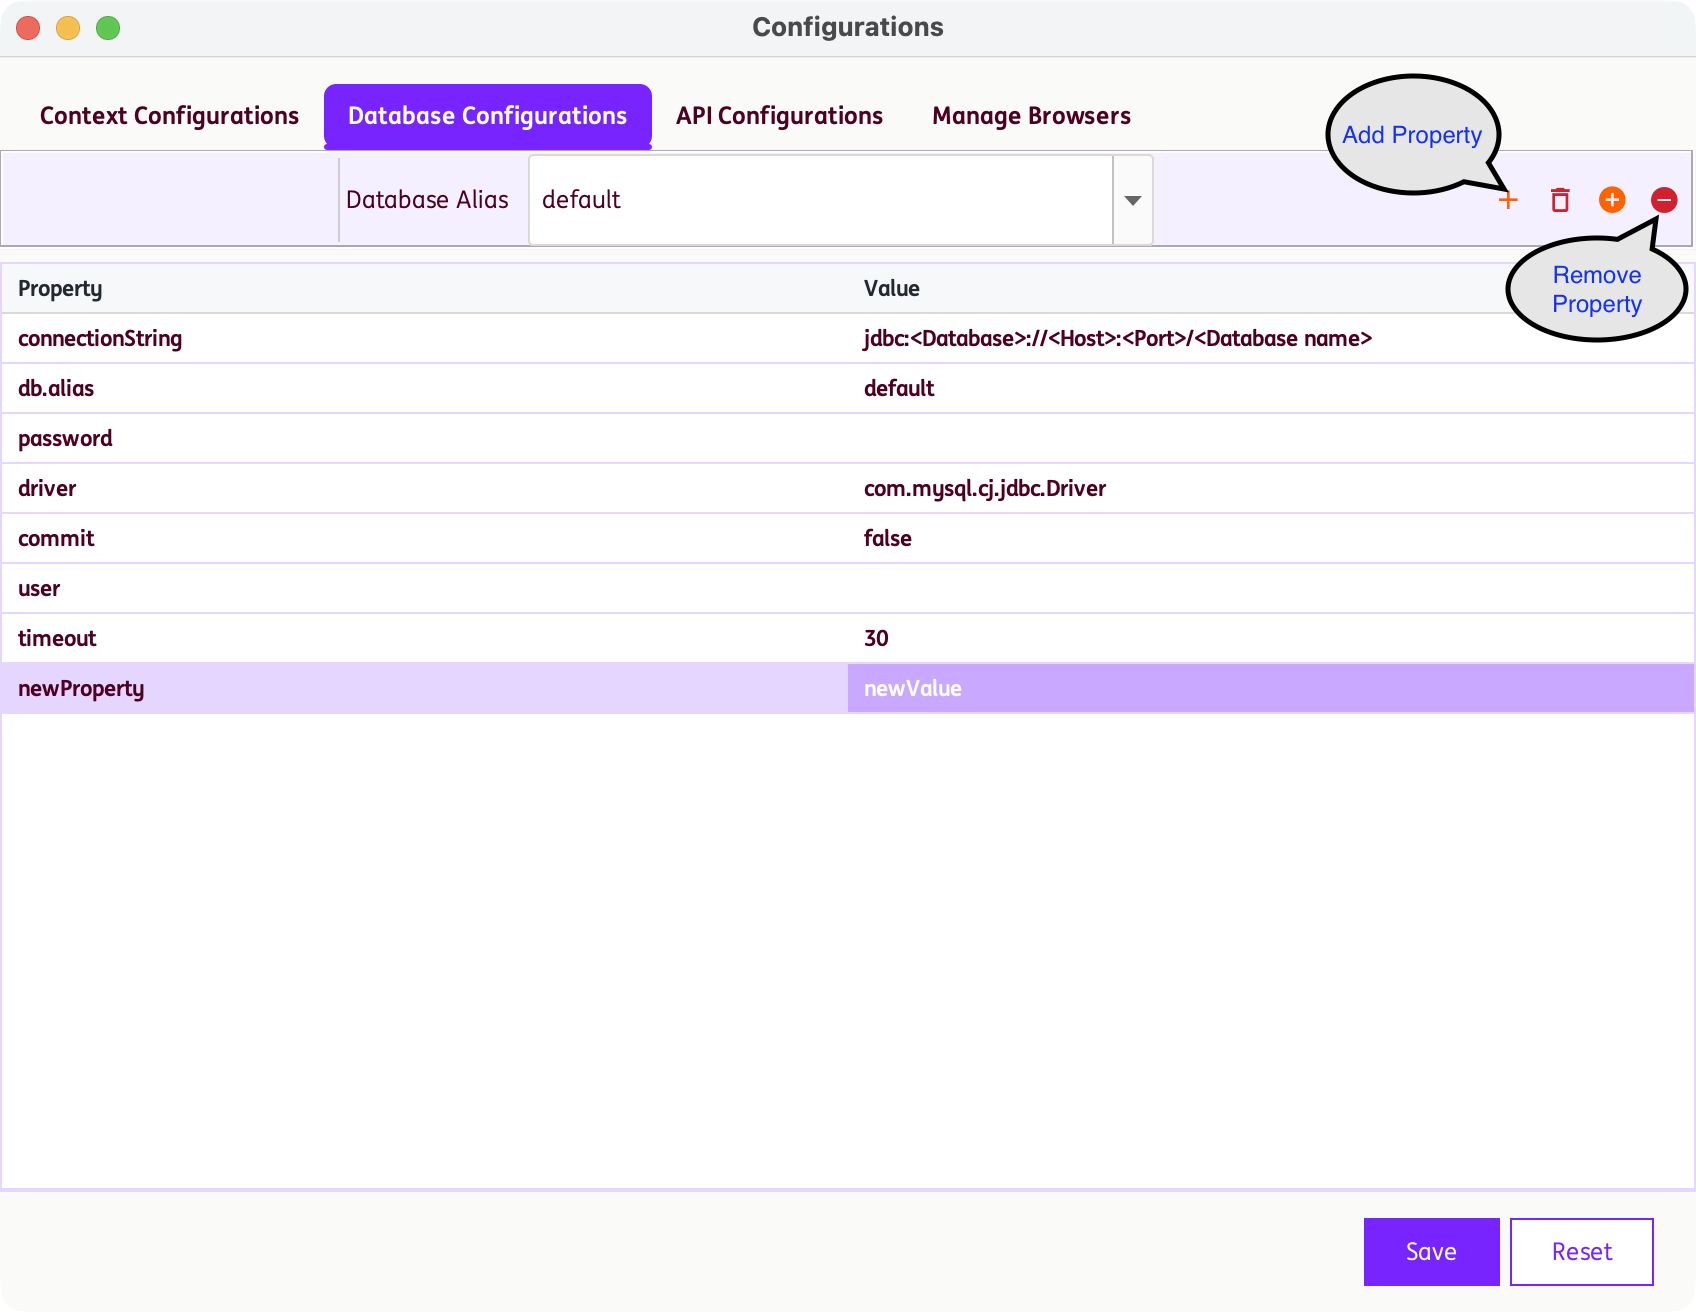
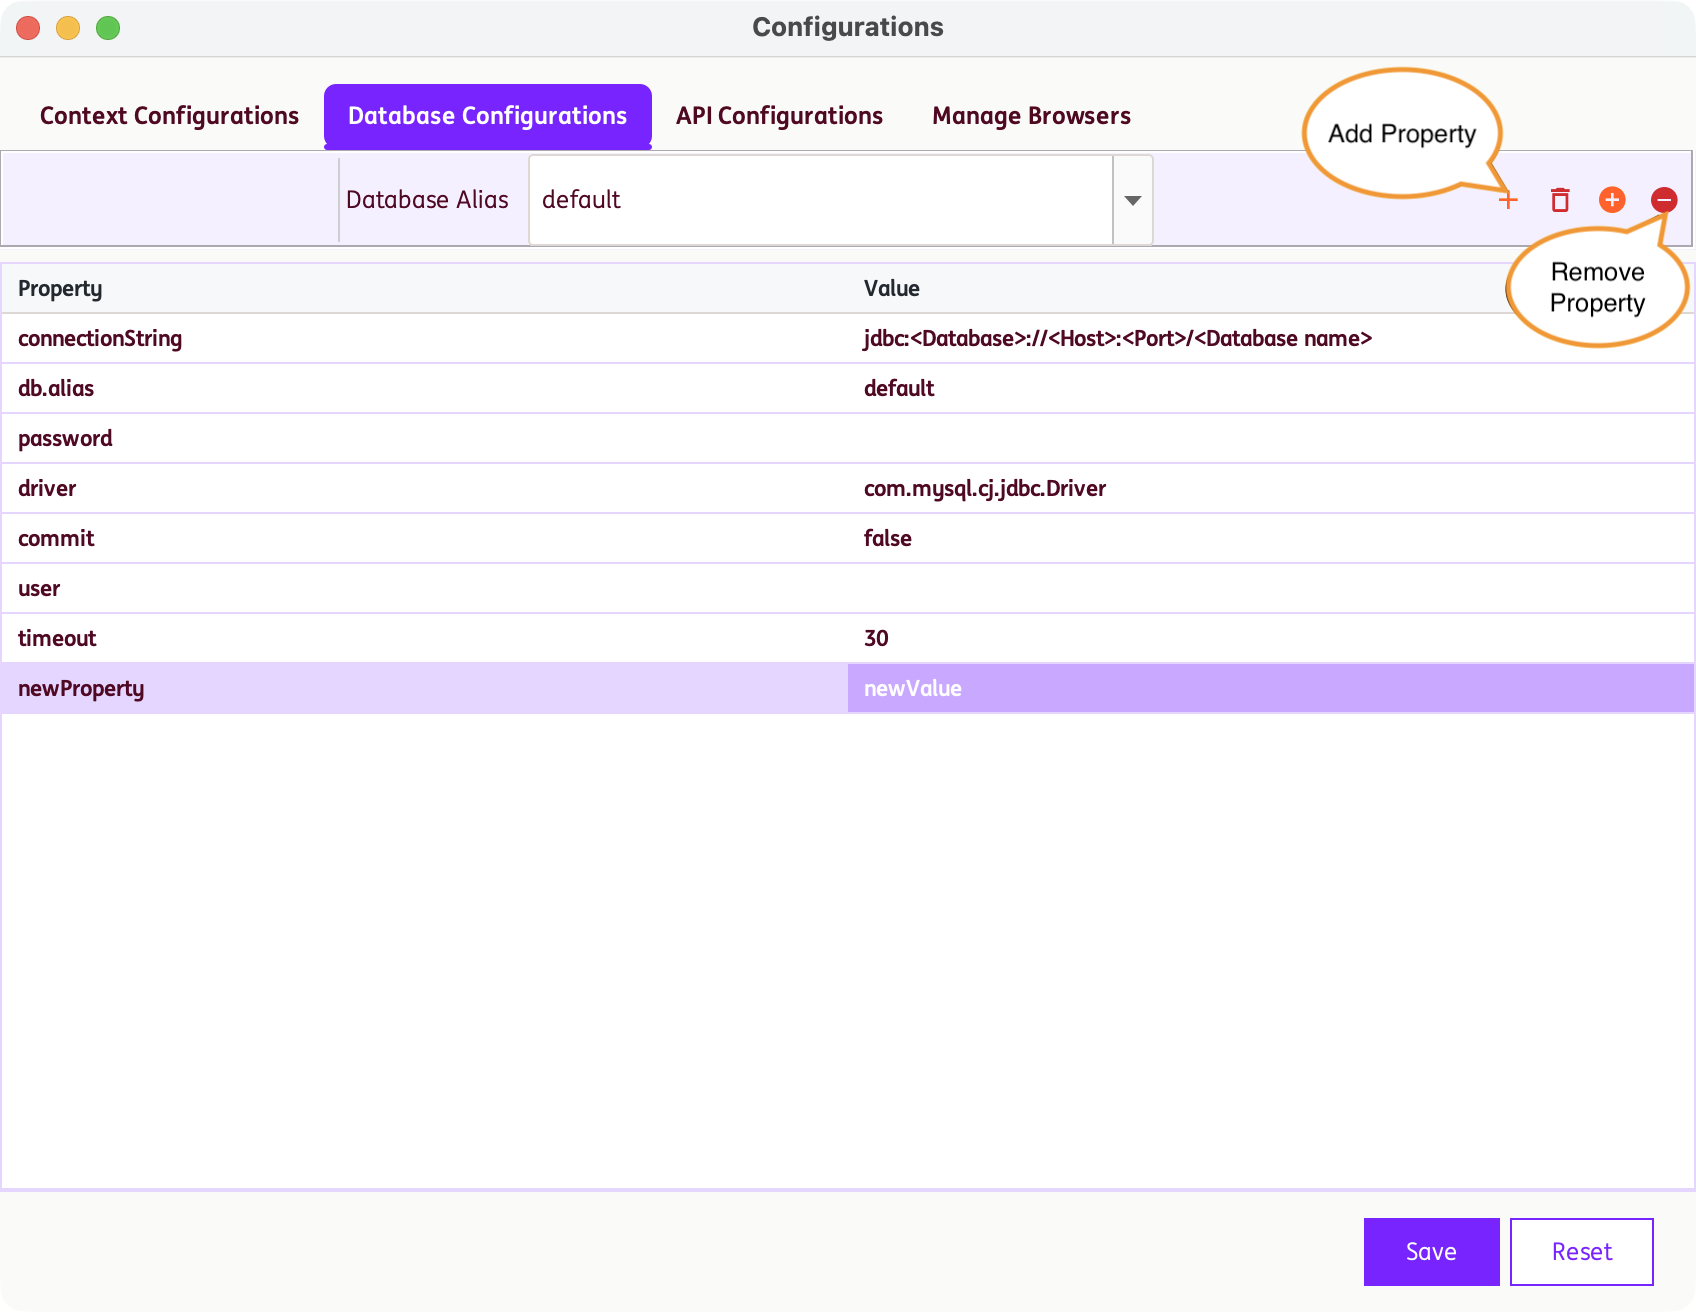
Finished database testing page
- Changed all screenshots
- Aligned text bubbles to match the standard
- Fixed some typos in the documentation

Changed region(s): [[0.75, 0.0312, 0.9062, 0.1562], [0.875, 0.125, 1.0, 0.2812]]

diff --git a/docs/databaseTesting/database.md b/docs/databaseTesting/database.md
@@ -3,7 +3,7 @@
 
 !!! info "What is Database Testing?"
 
-    Database testing involves validating the integrity, accuracy, and reliability of data stored in a database. It ensures that the database performs as expected under various conditions and that data is correctly stored, retrieved, and manipulated
+    Database testing involves validating the integrity, accuracy, and reliability of data stored in a database. It ensures that the database performs as expected under various conditions and that data is correctly stored, retrieved, and manipulated.
 
 
 !!! abstract "How does INGenious perform Database Testing?"
@@ -153,7 +153,7 @@ The list of **`Query`** steps is as follows :
 
  We need to press ++escape++ to close the editor
 
- ![editor](../img/db/editor-3.0.mov "editor")
+ ![editor](../img/db/editor-3.0.gif "editor")
  
 
 -----------------------------------
